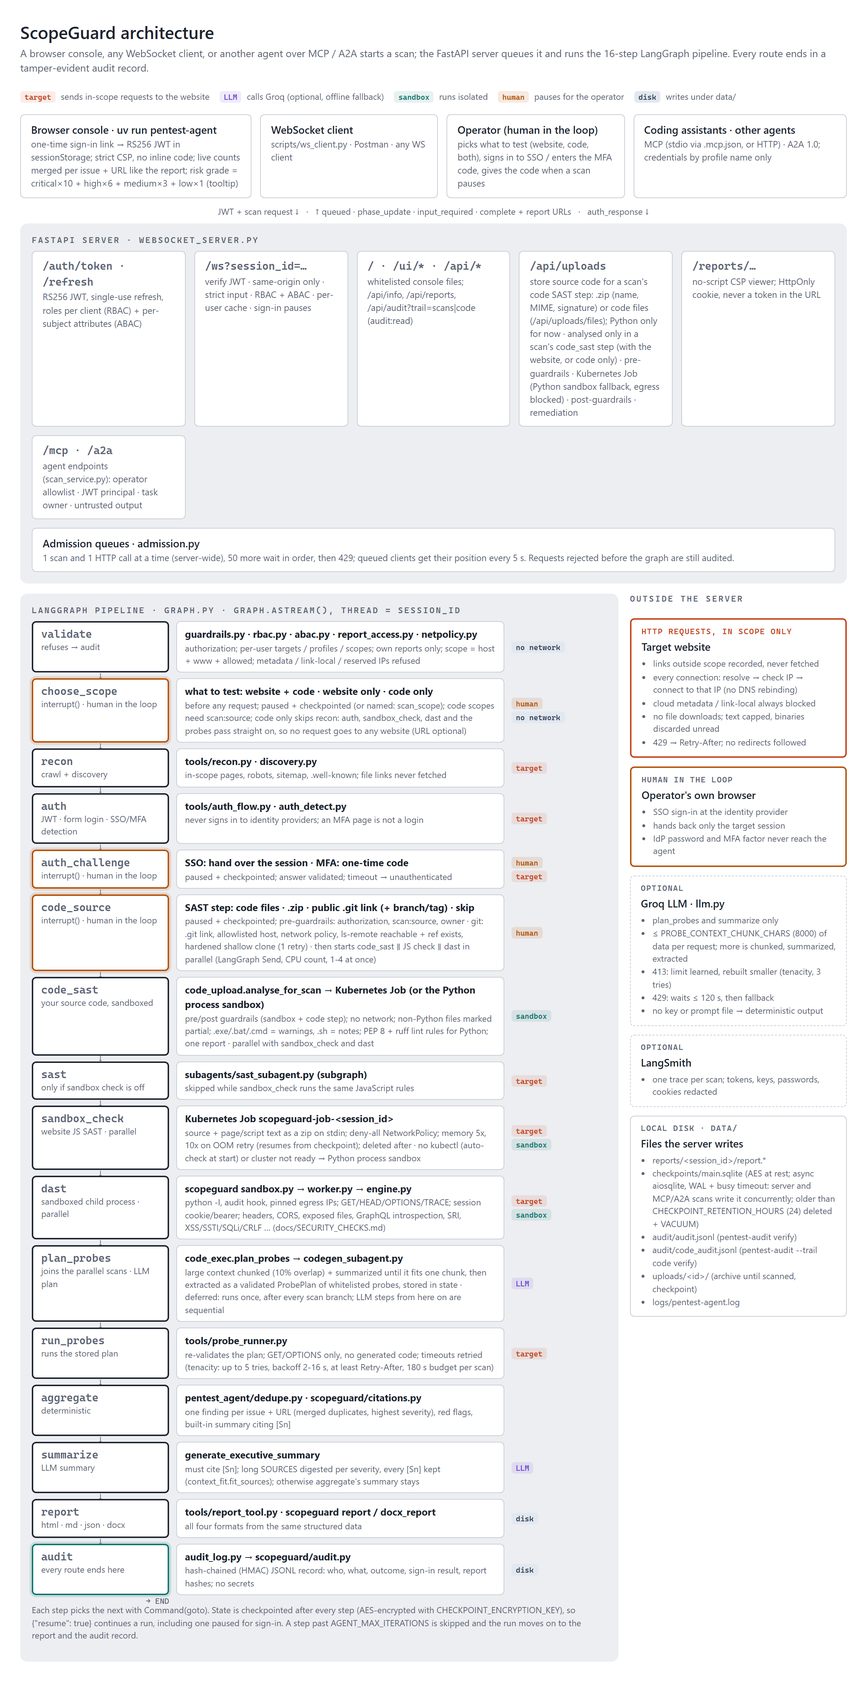
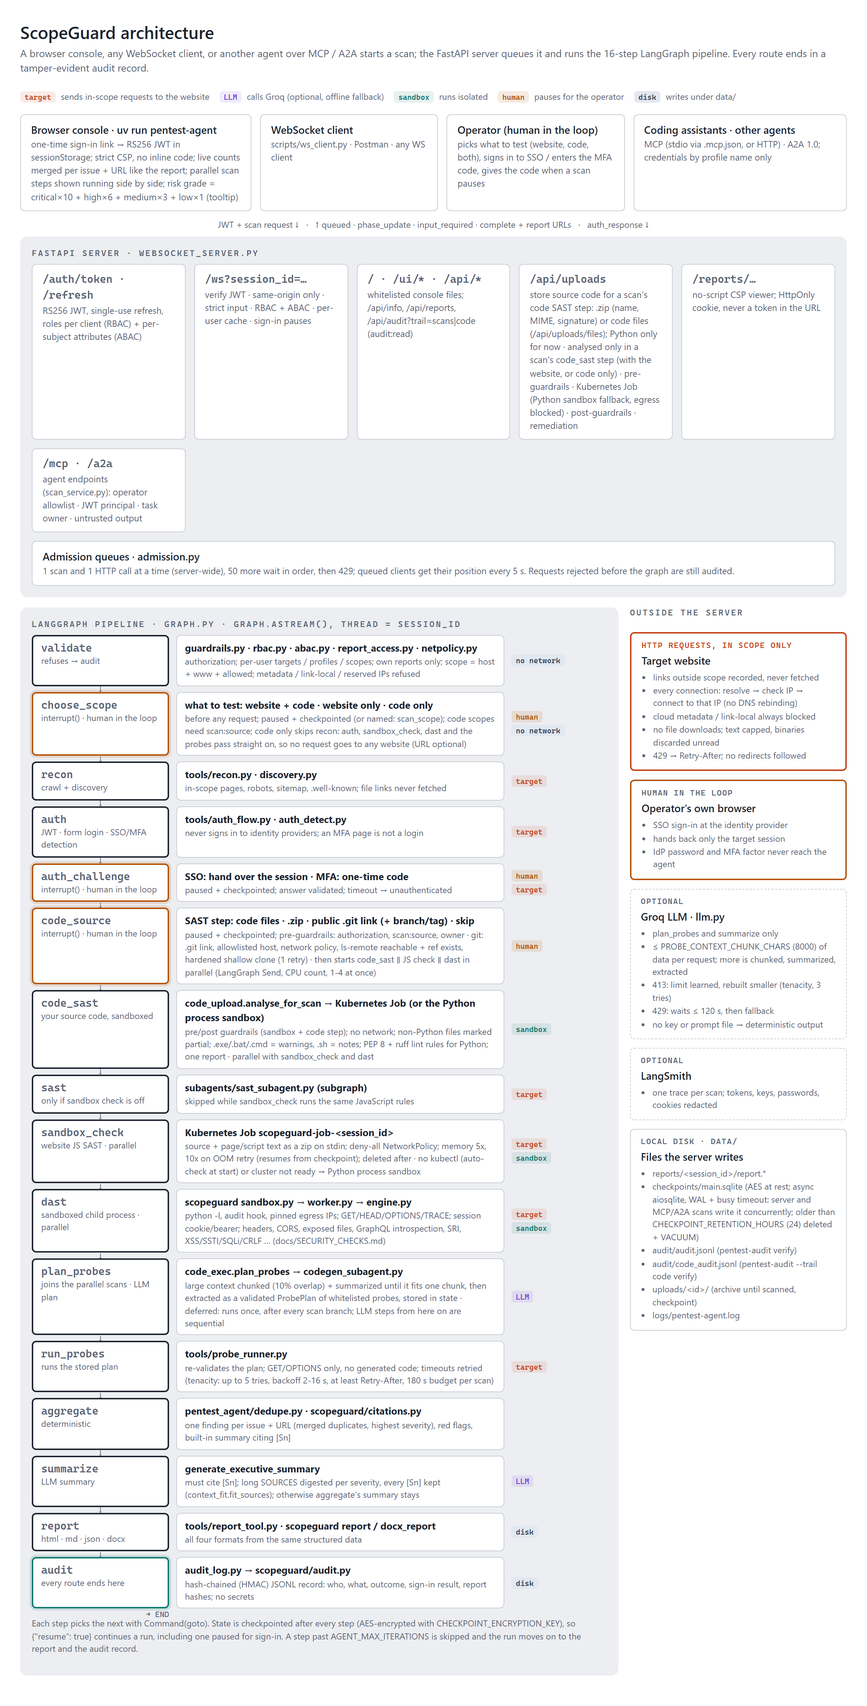
Clients follow the parallel scan steps: console, get_scan (MCP / A2A), chatbot
The code check, the website check and DAST now run in parallel and finish in
any order. Every client now handles that:

- graph: code_source's update names the steps it started (scan_branches).
- Console (webui/app.js): those steps show as running side by side; a finished
  one no longer marks a still-running sibling "skipped"; each shows its own
  time from the start of the parallel section; plan_probes shows as running
  only when none is left; progress counts finished steps.
- ScanService (MCP get_scan, A2A): running_steps lists the unfinished parallel
  steps; each step keeps its own phase (it used the last phase seen from any
  step). A2A and the chatbot replay steps in finishing order.
- Chatbot watch_scan: one "running in parallel: ..." progress line.
- Docs: README, chatbots/README, WEBSOCKET.md, mcp_server/CLAUDE.md, the
  scopeguard-scan skill (package rebuilt), architecture page.

diff --git a/src/pentest_agent/webui/app.js b/src/pentest_agent/webui/app.js
@@ -33,6 +33,9 @@
     { id: 'report', desc: 'html · md · json · docx' },
     { id: 'audit', desc: 'Tamper-evident audit record' },
   ];
+  // Steps code_source starts in parallel (LangGraph Send); plan_probes waits for all of them. They
+  // finish in any order, so one finishing must not mark its still-running siblings as skipped.
+  const PARALLEL = new Set(['code_sast', 'sast', 'sandbox_check', 'dast']);
   const SESSION_RE = /^[A-Za-z0-9][A-Za-z0-9._-]{0,127}$/;
   const STORE_KEY = 'scopeguard.auth.v1';
   const MAX_LOG = 600;
@@ -359,6 +362,7 @@
     sessionId: null,
     startedAt: 0,
     lastNodeAt: 0,
+    parallelSince: 0,
     findings: [],
     issueIndex: new Map(),  // issue|url -> index in findings (live merging)
     rawCount: 0,            // findings received, before merging
@@ -716,12 +720,27 @@
     $('rail-fill').style.width = pct + '%';
     $('pipe-pct').textContent = pct + '%';
   }
+  function finishedCount() {
+    return pipe.filter((n) => !['pending', 'running', undefined].includes(state.nodes[n.id])).length;
+  }
+  function startParallel(branches, now) {
+    // code_source said which scans it started: those run, the other parallel steps are not needed.
+    const started = new Set(branches.map((b) => str(b, 40)));
+    state.parallelSince = now;
+    for (const n of pipe) {
+      if (!PARALLEL.has(n.id) || state.nodes[n.id] === 'skipped') continue;
+      if (started.has(n.id)) setNode(n.id, 'running', 'in parallel…');
+      else setNode(n.id, 'skipped', 'not needed');
+    }
+  }
   function nodeFinished(id, data) {
     const idx = pipe.findIndex((n) => n.id === id);
     if (idx < 0) return;
     const now = Date.now();
     for (let i = 0; i < idx; i++) {
       const s = state.nodes[pipe[i].id];
+      // a parallel sibling that is still running is not skipped: it just has not finished yet
+      if (PARALLEL.has(id) && PARALLEL.has(pipe[i].id)) continue;
       if (s === 'pending' || s === 'running') setNode(pipe[i].id, 'skipped', 'not needed');
     }
     const phase = str(data.phase, 60);
@@ -730,14 +749,27 @@
     if (/_code_only$/.test(phase)) status = 'skipped';  // a website step a code-only scan passes on
     else if (/failed|forbidden|error/.test(phase) || data.error) status = 'failed';
     else if (/skipped|blocked|iteration_limit|fallback/.test(phase)) status = 'warn';
-    const bits = [`${((now - state.lastNodeAt) / 1000).toFixed(1)}s`];
+    // a parallel step's time counts from when the parallel scans started, not from the last step
+    const since = PARALLEL.has(id) && state.parallelSince ? state.parallelSince : state.lastNodeAt;
+    const bits = [`${((now - since) / 1000).toFixed(1)}s`];
     if (added) bits.push(`+${added}`);
     if (status === 'skipped') bits.push('code only');
     setNode(id, status, bits.join(' · '));
     state.lastNodeAt = now;
-    setProgress(idx + 1);
+    setProgress(finishedCount());
+    if (state.completed || status === 'failed') return;
+    if (id === 'code_source' && Array.isArray(data.scan_branches)) {
+      startParallel(data.scan_branches, now);
+      return;
+    }
+    if (PARALLEL.has(id)) {  // the join (plan_probes) starts only when no parallel step still runs
+      if (pipe.some((n) => PARALLEL.has(n.id) && state.nodes[n.id] === 'running')) return;
+      const join = pipe.find((n) => n.id === 'plan_probes');
+      if (join && state.nodes.plan_probes === 'pending') setNode('plan_probes', 'running', 'working…');
+      return;
+    }
     const next = pipe[idx + 1];
-    if (next && !state.completed && status !== 'failed') setNode(next.id, 'running', 'working…');
+    if (next) setNode(next.id, 'running', 'working…');
   }
 
   // ------------------------------------------------------------------ live counters
@@ -939,6 +971,7 @@
     state.sessionId = sid;
     state.startedAt = Date.now();
     state.lastNodeAt = Date.now();
+    state.parallelSince = 0;
     setMode('LIVE', 'live');
     setRunningUi(true);
     startElapsed();

diff --git a/docs/src/architecture.html b/docs/src/architecture.html
@@ -68,7 +68,7 @@
   </div>
 
   <div class="row clients">
-    <div class="box"><b>Browser console · uv run pentest-agent</b><span>one-time sign-in link → RS256 JWT in sessionStorage; strict CSP, no inline code; live counts merged per issue + URL like the report; risk grade = critical×10 + high×6 + medium×3 + low×1 (tooltip)</span></div>
+    <div class="box"><b>Browser console · uv run pentest-agent</b><span>one-time sign-in link → RS256 JWT in sessionStorage; strict CSP, no inline code; live counts merged per issue + URL like the report; parallel scan steps shown running side by side; risk grade = critical×10 + high×6 + medium×3 + low×1 (tooltip)</span></div>
     <div class="box"><b>WebSocket client</b><span>scripts/ws_client.py · Postman · any WS client</span></div>
     <div class="box"><b>Operator (human in the loop)</b><span>picks what to test (website, code, both), signs in to SSO / enters the MFA code, gives the code when a scan pauses</span></div>
     <div class="box"><b>Coding assistants · other agents</b><span>MCP (stdio via .mcp.json, or HTTP) · A2A 1.0; credentials by profile name only</span></div>

diff --git a/src/pentest_agent/scan_service.py b/src/pentest_agent/scan_service.py
@@ -230,6 +230,8 @@ class ScanRun:
     status: str = "running"          # running | input_required | completed | refused | failed | cancelled
     phase: str = "starting"
     steps: list[dict] = field(default_factory=list)   # {"node", "phase", "at_seconds"} per finished node
+    # The parallel scan steps started by code_source and not finished yet (graph scan_branches).
+    running: list[str] = field(default_factory=list)
     started_at: dt.datetime = field(default_factory=_now)
     finished_at: dt.datetime | None = None
     error: str | None = None
@@ -260,6 +262,9 @@ class ScanRun:
             "credentials": self.credentials,
             "signed_in": bool(self.state.get("auth_performed")) if self.done else None,
             "steps_completed": list(self.steps),
+            # Steps running in parallel right now (code check, website check, DAST); they can finish
+            # in any order, so steps_completed is in finishing order.
+            **({"running_steps": list(self.running)} if self.running and not self.done else {}),
             "started_at": self.started_at.isoformat(timespec="seconds"),
             "finished_at": self.finished_at.isoformat(timespec="seconds") if self.finished_at else None,
             "elapsed_seconds": round((end - self.started_at).total_seconds(), 1),
@@ -668,12 +673,19 @@ class ScanService:
                                         continue
                                     if node.startswith("__"):
                                         continue
-                                    if isinstance(update, dict) and update.get("phase"):
-                                        run.phase = str(update["phase"])
+                                    own_phase = (str(update["phase"]) if isinstance(update, dict)
+                                                 and update.get("phase") else None)
+                                    if own_phase:
+                                        run.phase = own_phase
                                     if isinstance(update, dict) and update.get("login_methods"):
                                         run.login_methods = dict(update["login_methods"])
+                                    if isinstance(update, dict) and update.get("scan_branches"):
+                                        run.running = [str(b) for b in update["scan_branches"]]
+                                    if node in run.running:
+                                        run.running = [b for b in run.running if b != node]
+                                    # Parallel steps finish in any order: each step keeps its own phase.
                                     run.steps.append({
-                                        "node": node, "phase": run.phase,
+                                        "node": node, "phase": own_phase or run.phase,
                                         "at_seconds": round((_now() - run.started_at).total_seconds(), 1)})
                             if pause is None:
                                 break

diff --git a/tests/test_mcp_server.py b/tests/test_mcp_server.py
@@ -158,6 +158,36 @@ async def test_scan_runs_and_returns_cleaned_results(fake_graph):
     assert inputs["target"]["jwt"] is None and inputs["target"]["auth"] is None
 
 
+async def test_parallel_steps_show_as_running_and_keep_their_own_phase(fake_graph, monkeypatch):
+    """code_source starts three scans in parallel; they finish in any order (dast first here).
+    get_scan lists the ones still running, and each finished step keeps its own phase."""
+    gate = asyncio.Event()
+
+    async def parallel_stream(inputs, config=None, stream_mode=None):
+        fake_graph.inputs = inputs
+        yield {"code_source": {"phase": "code_source_ready",
+                               "scan_branches": ["code_sast", "sandbox_check", "dast"]}}
+        yield {"dast": {"phase": "dast_complete"}}
+        await gate.wait()
+        yield {"code_sast": {"findings": []}, "sandbox_check": {"phase": "sandbox_check_complete"}}
+        yield {"plan_probes": {"phase": "probe_plan_ready"}}
+
+    monkeypatch.setattr(fake_graph, "astream", parallel_stream)
+    started = await _call("start_scan", {"target_url": "https://app.example.com/", "authorization_confirmed": True})
+    mid = None
+    for _ in range(50):
+        mid = await _call("get_scan", {"scan_id": started["scan_id"]})
+        if [s["node"] for s in mid["steps_completed"]] == ["code_source", "dast"]:
+            break
+        await asyncio.sleep(0.02)
+    assert mid["running_steps"] == ["code_sast", "sandbox_check"]  # dast done, the other two still running
+    gate.set()
+    done = await _call("get_scan", {"scan_id": started["scan_id"], "wait_seconds": 5})
+    assert "running_steps" not in done
+    phases = {s["node"]: s["phase"] for s in done["steps_completed"]}
+    assert phases["dast"] == "dast_complete" and phases["sandbox_check"] == "sandbox_check_complete"
+
+
 async def test_one_scan_at_a_time(fake_graph):
     fake_graph.delay = 0.2
     first = await _call("start_scan", {"target_url": "https://app.example.com/", "authorization_confirmed": True})

diff --git a/chatbots/mcp_chatbot/test_chatbot.py b/chatbots/mcp_chatbot/test_chatbot.py
@@ -146,6 +146,8 @@ async def test_watch_scan_streams_each_step_then_returns_a_compact_result():
         if max_findings == 0:
             n = next(polls)
             data = {"scan_id": scan_id, "status": "running" if n < 3 else "completed", "steps_completed": steps[:n]}
+            if n == 2:  # the parallel scan steps are still running
+                data["running_steps"] = ["code_sast", "dast"]
         else:
             data = {"scan_id": scan_id, "status": "completed", "target_url": "https://app.example.test/",
                     "profile": "standard", "steps_completed": steps, "severity_counts": {"medium": 2},
@@ -160,8 +162,8 @@ async def test_watch_scan_streams_each_step_then_returns_a_compact_result():
     events: list[dict] = []
     await eng.send("t5", "watch it", events.append)
     progress = [e["text"] for e in events if e["type"] == "progress"]
-    assert progress[:3] == ["validate done (phase validated, 0.3s)", "recon done (phase recon_complete, 4.7s)",
-                            "audit done (phase audited, 16.4s)"]
+    assert progress[:4] == ["validate done (phase validated, 0.3s)", "recon done (phase recon_complete, 4.7s)",
+                            "running in parallel: code_sast, dast", "audit done (phase audited, 16.4s)"]
     assert progress[-1].startswith("scan completed: 2 finding(s)")
     # The user gets the scanner's own result block (exact severities, real file paths) ...
     block = next(e for e in events if e["type"] == "scan_result")["markdown"]

diff --git a/src/pentest_agent/graph.py b/src/pentest_agent/graph.py
@@ -171,6 +171,9 @@ class AgentState(TypedDict, total=False):
     # "commit"}. code_report: what code_sast found (FinalReport.code_upload).
     code_source: dict
     code_report: dict
+    # The scans code_source started in parallel (Send), e.g. ["code_sast", "sandbox_check", "dast"]:
+    # clients (console, get_scan) show exactly these as running until each reports.
+    scan_branches: list[str]
     # What this scan tests (choose_scope step, human in the loop or named in the request):
     # "website_and_code" | "website" | "code", and how it was decided {"scope", "decided_by", "offered"}.
     scan_scope: str
@@ -629,8 +632,9 @@ def _scan_branches(state: AgentState, update: dict, with_code: bool) -> list[Sen
     """Fan-out with LangGraph's Send: the code check (when there is code), the website's
     JavaScript check and DAST start together; LangGraph runs them concurrently (at most
     ``max_concurrency()`` at a time) and each goes to plan_probes, which waits for all."""
-    snap = _branch_state(state, update)
     nodes = (["code_sast"] if with_code else []) + [_js_sast_step(), "dast"]
+    update["scan_branches"] = nodes  # streamed with code_source's update: clients know what runs
+    snap = _branch_state(state, update)
     return [Send(node, snap) for node in nodes]
 
 

diff --git a/chatbots/mcp_chatbot/chatbot.py b/chatbots/mcp_chatbot/chatbot.py
@@ -78,6 +78,7 @@ def make_watch_scan(get_scan):
         seen = 0
         announced = None  # the sign-in pause already shown to the user
         methods_shown = False
+        parallel_shown = None  # the parallel steps already announced
         while True:
             data = mcp_json(await get_scan.ainvoke({"scan_id": scan_id, "wait_seconds": POLL_SECONDS,
                                                     "max_findings": 0}))
@@ -87,6 +88,10 @@ def make_watch_scan(get_scan):
                 seen += 1
                 write({"text": f"{step.get('node')} done (phase {step.get('phase')}, "
                                f"{step.get('at_seconds')}s)"})
+            running = [str(r) for r in data.get("running_steps") or []]
+            if running and parallel_shown is None:  # code check, website check and DAST run together
+                parallel_shown = running
+                write({"text": "running in parallel: " + ", ".join(running)})
             methods = data.get("login_methods") or {}
             if methods and not methods_shown and methods.get("kind") not in (None, "none"):
                 methods_shown = True

diff --git a/src/pentest_agent/mcp_server/CLAUDE.md b/src/pentest_agent/mcp_server/CLAUDE.md
@@ -94,7 +94,7 @@ Then call `start_scan(..., credentials="staging")`.
 | `scan_policy` | Call first. Lists the allowlisted targets, the profiles allowed for the caller, credential profiles (names only), whether an LLM is configured, and the rules. |
 | `start_scan(authorization_confirmed, target_url=None, profile="standard", additional_allowed_domains=[], credentials=None, upload_id=None, git_url=None, git_ref=None, scan_scope=None, idempotency_key=None)` | Starts a background scan and returns a `scan_id`. `scan_scope` is what it tests: `website_and_code` (default with code), `website` (default without) or `code` (the source code only: no request to any website; `target_url` may be left out, otherwise its allowlisted URL labels the report). Every other scope needs `target_url`. Code scopes need `upload_id`/`git_url` and `scan:source`; `scan_policy.scan_scopes` lists which the caller may use, `get_scan.scan_scope` what ran. Source code (admin) for the graph's `code_sast` step: `upload_id` from `upload_code`, or `git_url`, a public repository's `.git` clone link on `GIT_ALLOWED_HOSTS` (+ optional `git_ref` branch/tag; reachability and the ref are checked before a shallow clone without credentials). Not both. Its findings are in the same report; `get_scan` adds a `code_sast` summary with `languages` (non-Python files: partial coverage; `.exe/.bat/.cmd`: warnings, `.sh`: notes) and `coding_standard` (PEP 8 and ruff lint `STYLE_*` findings per rule: unused imports/variables, F541, F811, F632, E741). Every check the scanner runs is listed in `docs/SECURITY_CHECKS.md`. Python projects only for now. |
 | `start_demo_scan(profile="standard", sign_in=false, idempotency_key=None)` | Starts the built-in, deliberately vulnerable app on loopback and scans it. Needs no allowlist entry. |
-| `get_scan(scan_id, wait_seconds=0..55, max_findings=25)` | Status and each finished agent step (`steps_completed`). Once finished it also returns severity counts, the most severe findings, red flags, the executive summary, `signed_in`, report URLs (`report_files`: `<agent>/reports/<id>/report.<fmt>`, never server paths) and the audit record. |
+| `get_scan(scan_id, wait_seconds=0..55, max_findings=25)` | Status and each finished agent step (`steps_completed`, in finishing order: code_sast, sandbox_check / sast and dast run in parallel; while they run, `running_steps` lists the unfinished ones, from the graph's `scan_branches`; each step keeps its own `phase`). Once finished it also returns severity counts, the most severe findings, red flags, the executive summary, `signed_in`, report URLs (`report_files`: `<agent>/reports/<id>/report.<fmt>`, never server paths) and the audit record. |
 | `cancel_scan(scan_id)` | Stops a running scan after its current step. The cancellation is audited. |
 | `submit_sign_in(scan_id, action, code=None, credentials=None)` | Answers a sign-in pause (`status: input_required`, `get_scan.sign_in` says kind sso / mfa / session, the login page, identity provider, `methods` and why). `action="mfa_code"` + the code the user reads; `action="session"` + a `session` (or jwt) credential profile the operator stored after signing in in a browser (raw `cookie`/`bearer` only with `MCP_ALLOW_INLINE_CREDENTIALS`); `action="skip"`. Needs `scan:authenticated` except skip. |
 | `skip_sign_in(scan_id)` | Escape hatch: continue a paused scan unauthenticated. No answer within `AUTH_INPUT_TIMEOUT_SECONDS` (300) does the same. |

diff --git a/docs/WEBSOCKET.md b/docs/WEBSOCKET.md
@@ -135,7 +135,7 @@ Every server frame is one JSON object with a `type`. Handle them in a loop until
 | --- | --- | --- | --- |
 | `queued` | Server busy (`WS_MAX_ACTIVE` scans running) | `position`, `queue_length`, `active`, `max_active`, `estimated_wait_seconds`, `message` | Show the position and keep the socket open. Updates arrive on change and every `QUEUE_UPDATE_SECONDS`. |
 | `status` | Progress notes | `message`, optional `event` (`queue_admitted`, `input_received`, `input_timeout`, `git_probe`, LLM rate-limit waits), `profile`, `wait_seconds`, `attempt` | Display it. Nothing to answer. |
-| `phase_update` | After each graph step (`code_sast`, `sandbox_check` / `sast` and `dast` run in parallel, so their updates can arrive in any order) | `node` (e.g. `recon`, `dast`, `run_probes`, `report`), `data` (the step's **new** state: `phase`, `findings`, `red_flags`, `crawled_pages`, report links, ...) | Lists in `data` are **increments**: append them, don't replace. Merge findings per issue + URL if you show live totals (the report does the same). Secrets and server file paths are never in `data`. |
+| `phase_update` | After each graph step (`code_sast`, `sandbox_check` / `sast` and `dast` run in parallel, so their updates can arrive in any order; `code_source`'s `data.scan_branches` lists exactly the steps it started, so a client can show them as running until each reports) | `node` (e.g. `recon`, `dast`, `run_probes`, `report`), `data` (the step's **new** state: `phase`, `findings`, `red_flags`, `crawled_pages`, report links, ...) | Lists in `data` are **increments**: append them, don't replace. Merge findings per issue + URL if you show live totals (the report does the same). Secrets and server file paths are never in `data`. |
 | `input_required` | The scan paused for the operator | `request` (`type` = `scan_scope` \| `code_source` \| `sign_in` + details), `timeout_seconds`, `message` | Answer with the matching `*_response` (section 3.3) before the timeout. No answer = default scope / skip. |
 | `input_invalid` | Your answer was refused | `message`, optional `detail` (validation errors) | Ask again and resend. The pause is still open. |
 | `token_refreshed` | Your API token is about to expire (`JWT_AUTO_REFRESH_BEFORE_MINUTES`) | `access_token`, `expires_at`, `expires_in` | Store it for the next HTTP call / resume. The socket stays authenticated. |

diff --git a/README.md b/README.md
@@ -20,7 +20,11 @@ then the server runs the LangGraph pipeline `validate → choose_scope → recon
 and streams progress back. After `code_source` the scans that need nothing from each other run **in
 parallel** (LangGraph `Send`; as many at once as the machine has CPUs, 1 to 4): the code check and the website's
 JavaScript check (each its own Kubernetes Job) and DAST (process sandbox). `plan_probes` waits for all of
-them (a deferred join); the LLM steps and the probes they plan stay sequential. `choose_scope` asks you first, before any request, what the scan tests:
+them (a deferred join); the LLM steps and the probes they plan stay sequential. Every client follows
+the parallel steps: `code_source` names the steps it started (`scan_branches`), the console shows them
+running side by side (a finished one never marks a sibling skipped; each shows its own time), MCP / A2A
+`get_scan` lists the unfinished ones as `running_steps` and every step keeps its own phase, and the
+chatbot says which steps run in parallel. `choose_scope` asks you first, before any request, what the scan tests:
 the **website + its source code**, the **website only**, or the **code only** (then the run skips the
 recon layer, `choose_scope → auth → code_source → (code_sast ∥ sandbox_check ∥ dast) → plan_probes → run_probes → aggregate`, and the website steps pass straight on, so nothing is sent to any site; see
 [What to test](#what-to-test-website--code-website-only-code-only-human-in-the-loop)). `auth_challenge` runs only when the target needs a human for SSO or MFA

diff --git a/chatbots/README.md b/chatbots/README.md
@@ -8,7 +8,9 @@ shows the scanner's verified result and explains it.
   (one conversation per thread, kept in memory).
 - **Tools:** the scanner's MCP server (`<server>/mcp`, Streamable HTTP), loaded with
   `langchain-mcp-adapters`. A small `watch_scan` tool built on the MCP `get_scan` tool
-  streams each finished scan step and returns the result when the scan ends.
+  streams each finished scan step and returns the result when the scan ends. The code check,
+  the website check and DAST run in parallel on the scanner, so their steps arrive in finishing
+  order, after one "running in parallel: ..." line (from `get_scan`'s `running_steps`).
 - **Human in the loop:** `HumanInTheLoopMiddleware` pauses before every `start_scan`,
   `start_demo_scan` and `cancel_scan`. You approve, edit the arguments, or reject.
   Approving `start_scan` *is* the authorization confirmation: the chatbot sets

diff --git a/.claude/skills/scopeguard-scan/SKILL.md b/.claude/skills/scopeguard-scan/SKILL.md
@@ -91,8 +91,9 @@ else's site is an attack on it, whatever the intent.
      continue unauthenticated. No answer within `sign_in.timeout_seconds` = skip. Never ask for
      passwords or MFA seeds in the chat. `start_scan(pause_for_sign_in=false)` never pauses.
    - Each call returns `steps_completed`, so you can tell the user which step it is on (recon,
-     dast, report, ...) instead of going silent. A standard scan of a real site can take
-     several minutes.
+     dast, report, ...) instead of going silent. The code check, the website check and DAST run
+     in parallel, so they finish in any order; while they run, `running_steps` lists the ones
+     not finished yet. A standard scan of a real site can take several minutes.
 
 7. **Report the result** (format below), and offer the HTML or DOCX report from `report_files`.
 
